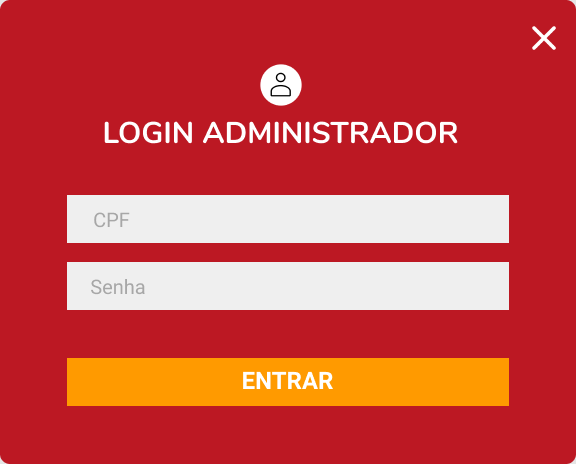
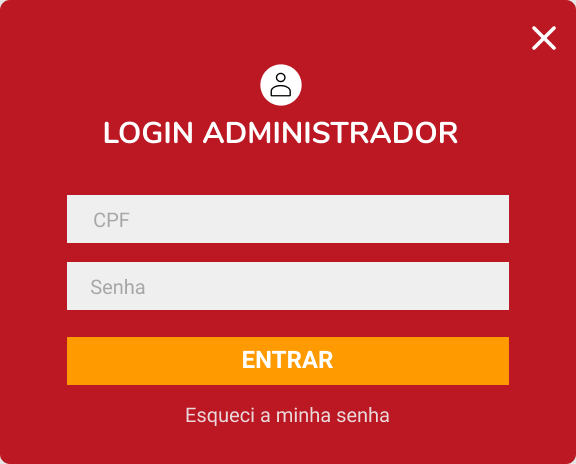
alterar login admin2

Changed region(s): [[0.0938, 0.7241, 0.9062, 0.9353]]

diff --git a/docs/interface.md b/docs/interface.md
@@ -34,7 +34,7 @@ São protótipos usados em design de interface para sugerir a estrutura de um si
 
 ## HOME
 
-Pégina Home, a partir dela tanto o cliente quanto o administrador terá acesso as demais telas.
+Página Home, a partir dela tanto o cliente quanto o administrador terá acesso as demais telas.
 ![Home](https://user-images.githubusercontent.com/89883396/136483085-1f7a2022-e01f-4fed-bf11-9d632f589ca0.png)
 
 ---
@@ -73,7 +73,7 @@ Página para os administradores fazerem login.
 
 ## LOGIN - RECUPERAR SENHA
 
-Página que possibilita o cliente recuperar sua senha, caso tenha esquecido.
+Página que possibilita o cliente ou o administrador recuperar sua senha, caso tenha esquecido.
 ![Recuperar Senha](https://user-images.githubusercontent.com/85374847/136380498-543c5e00-2b51-48cd-bf28-54d1f1d0cd6d.png)
 
 ---
